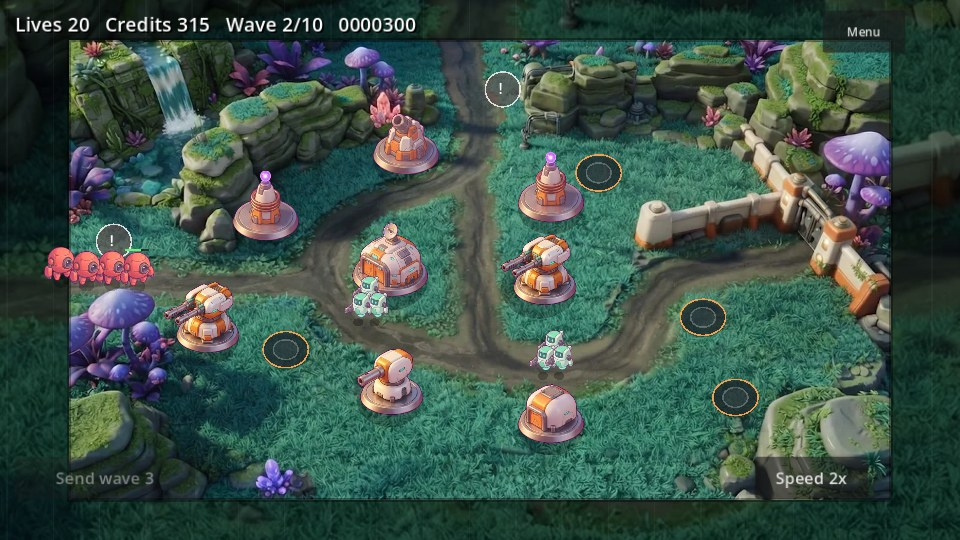
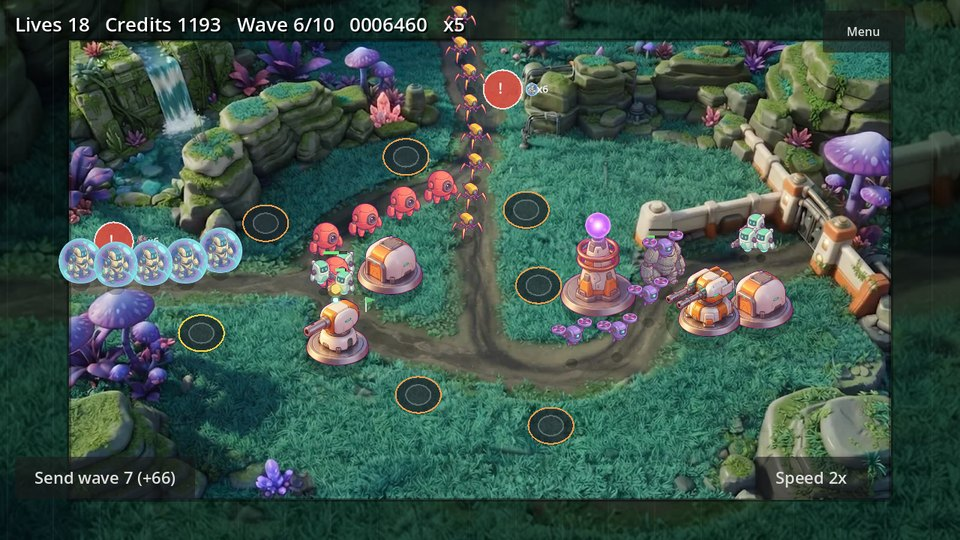
Game Shelf: Bastion Road 0.3.1 card
Claude-Session: https://claude.ai/code/session_0117TTYCXLmf3oy3gfeEsB1p

diff --git a/index.html b/index.html
@@ -99,11 +99,11 @@ h2 a[href="lo-fi-league/"]{font-size:.9em;word-spacing:.35em}h2 a[href="pixel-ho
 </div>
 </article>
 <article class="card" data-repo="bastion-road">
-<a class="shot" href="bastion-road/"><img src="images/bastion-road.jpg?v=0.3.0" alt="Bastion Road: toy render towers on a painted jungle map as robots march in from the west landing" width="960" height="540" loading="lazy"></a>
+<a class="shot" href="bastion-road/"><img src="images/bastion-road.jpg?v=0.3.1" alt="Bastion Road: a mixed defense of Blasters, Drone Bays, an Arc Coil and a Mortar holding robots on the jungle roads" width="960" height="540" loading="lazy"></a>
 <div class="body">
 <div class="top"><h2><a href="bastion-road/">Bastion Road</a></h2><span class="tag">Hold the outpost against the robot waves</span></div>
-<p class="desc">A Kingdom Rush style tower defense on a painted jungle planet. Robots land at two edges and march to the outpost gate. Build toy render Blasters, Drone Bays, Arc Coils and Mortars on the pads and upgrade each to level 3. Guard drones hold robots on the road while your towers hit them. Armored, shielded and flying robots each need the right tower. Send waves early for bonus credits and win up to three stars. Easy, Normal and Hard. 1x and 2x speed. Five save slots. Touch, keyboard or Xbox controller, played sideways.</p>
-<p class="meta">Browser and Android<span class="ver"> · Version 0.3.0</span> <span class="upd">· Updated <time datetime="2026-11-20T17:02-06:00">Nov 20, 2026, 5:02 PM CT</time></span></p>
+<p class="desc">A Kingdom Rush style tower defense on a painted jungle planet. Robots land at two edges and march to the outpost gate. Build toy render Blasters, Drone Bays, Arc Coils and Mortars on the pads and upgrade each to level 3. Guard drones hold robots on the road while your towers hit them. Armored, shielded and flying robots each need the right tower. Send waves early for bonus credits, collect a supply drop each wave and win up to three stars. Easy, Normal and Hard. 1x and 2x speed. Five save slots. Touch, keyboard or Xbox controller, played sideways.</p>
+<p class="meta">Browser and Android<span class="ver"> · Version 0.3.1</span> <span class="upd">· Updated <time datetime="2026-11-21T09:25-06:00">Nov 21, 2026, 9:25 AM CT</time></span></p>
 <div class="actions"><a class="btn" href="bastion-road/">Open game page</a></div>
 </div>
 </article>
